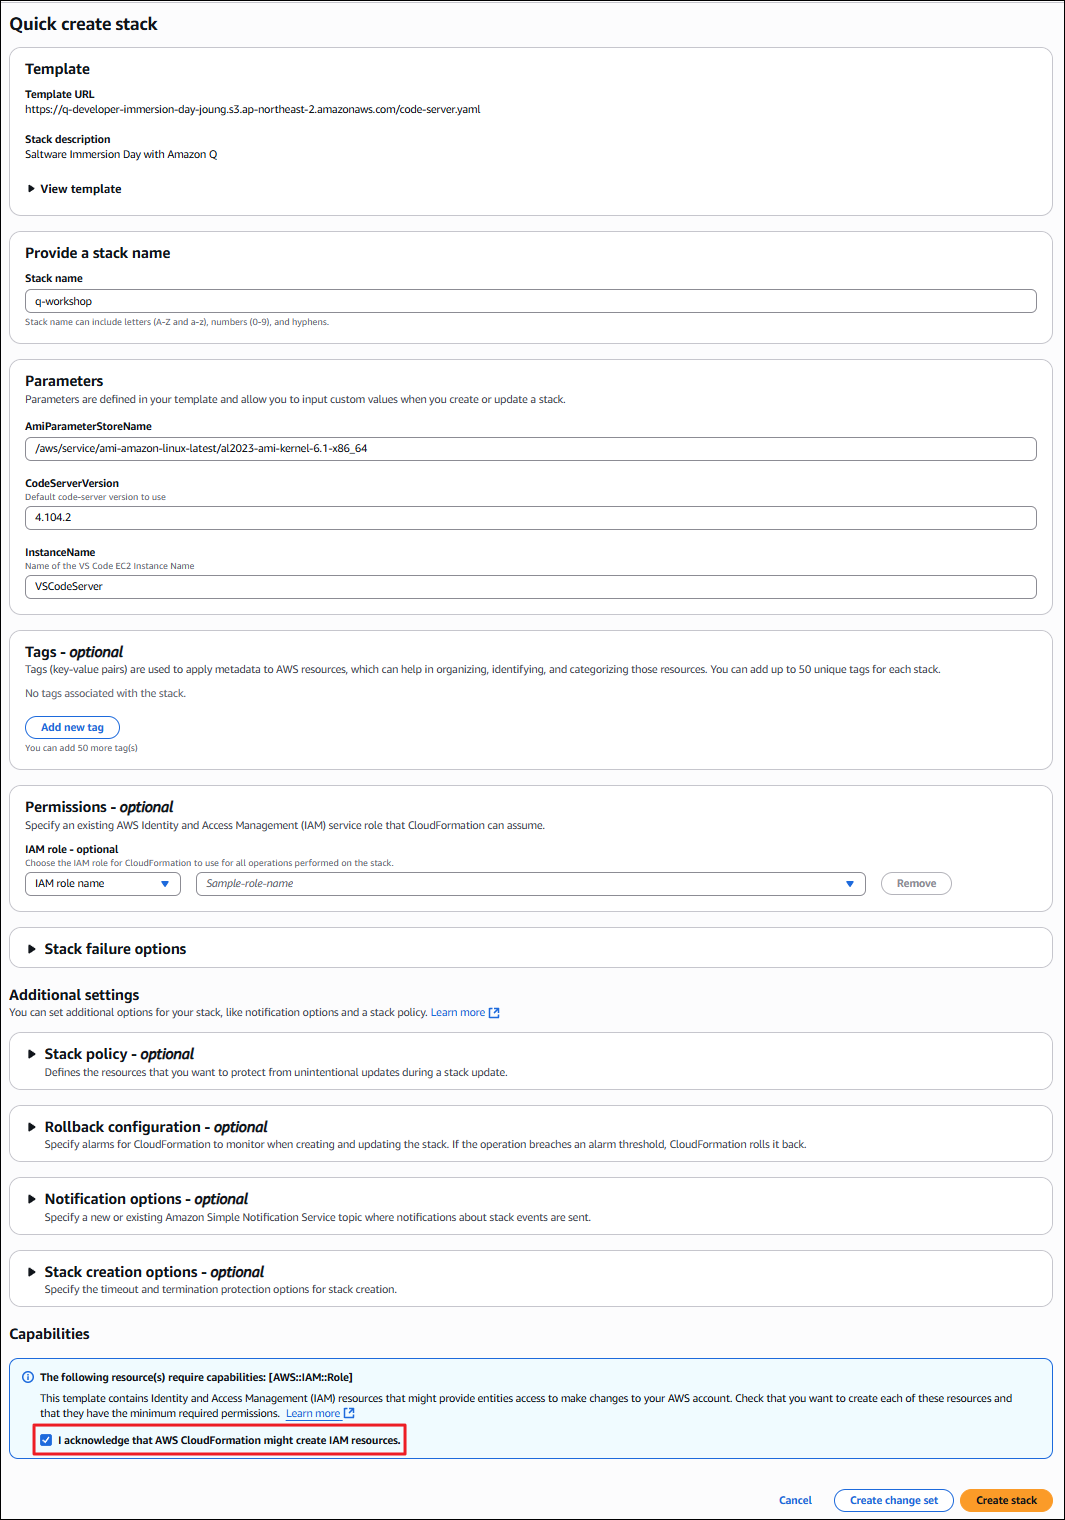
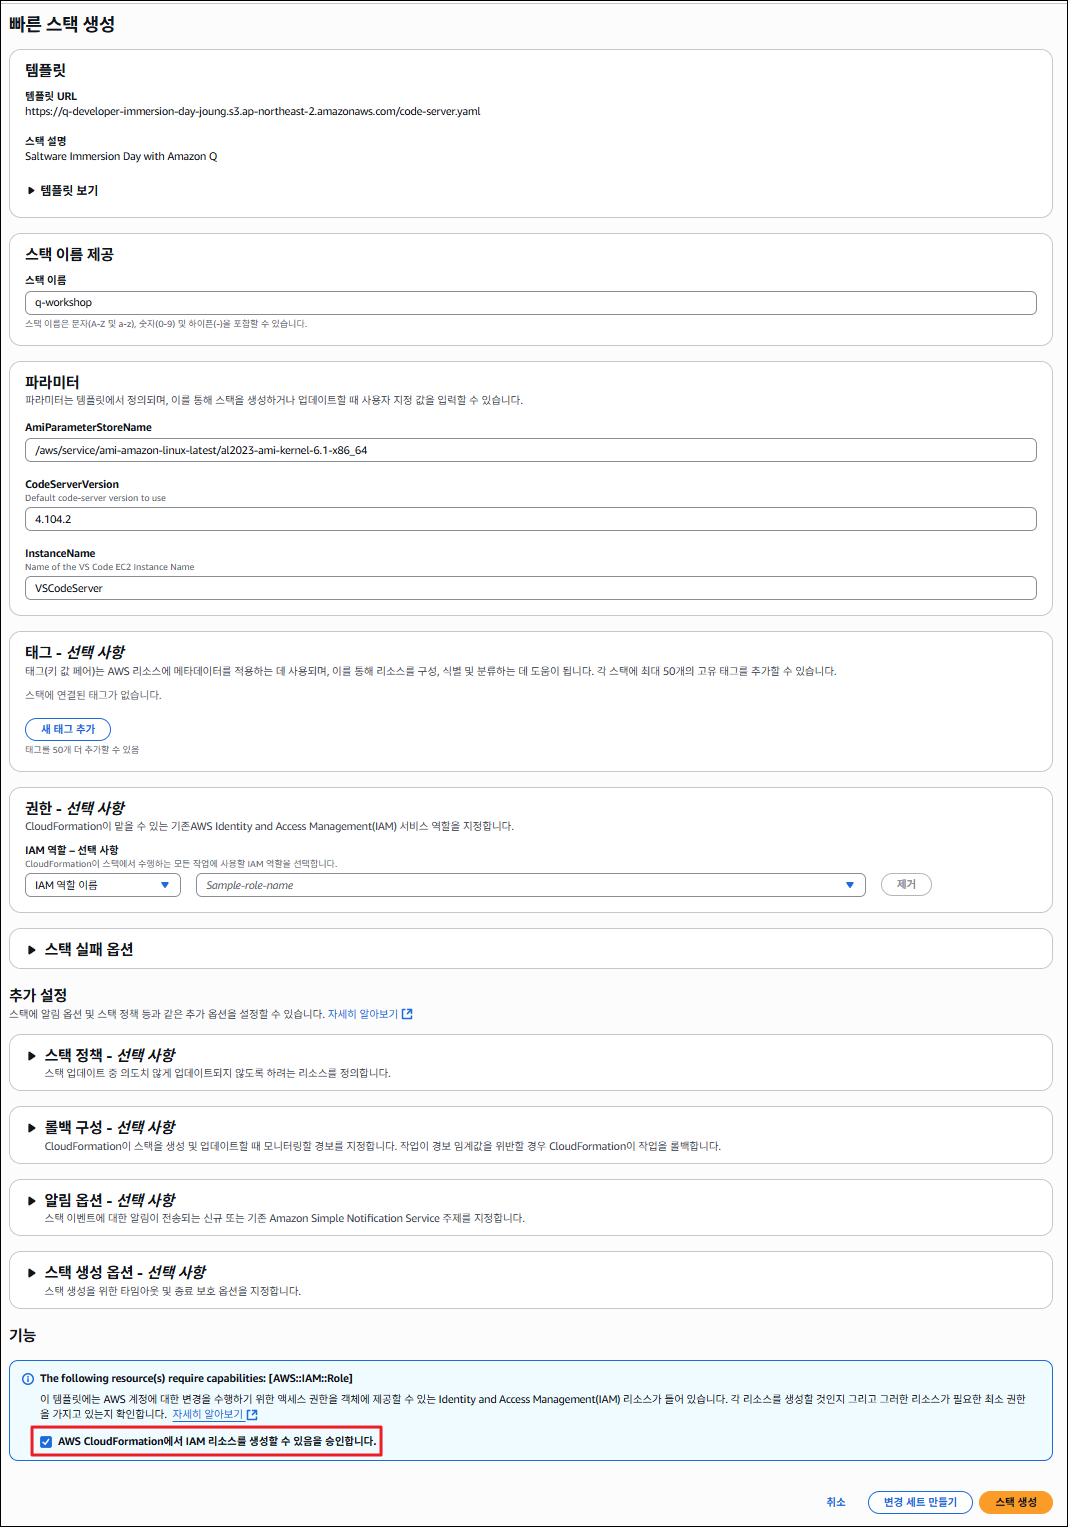
workshop 3.0

diff --git a/docs/20-q_feature/21-chat.md b/docs/20-q_feature/21-chat.md
@@ -12,14 +12,30 @@ Amazon Q Developer의 Chat은 IDE 안에서 자연어로 질문하고 답변을 
     ![agentic_off](./images/agentic_off.png)
 
 
-## Act 2: Amazon Q 기능 확인하기
+## Act 2: 채팅 활용하기
+  Amazon Q는 AWS 서비스 및 소프트웨어 개발에 대한 질문에 답변할 수 있습니다.
+
+  1. AWS와 관련된 질문하거나, 궁금한 사항을 질문해보세요.
+
+    예시 프롬프트 :
+    ```
+    Python Streamlit으로 개발된 웹 애플리케이션을 AWS로 배포하는 방법을 알려주세요.
+    ```
+    
+  2. Amazon Q가 해당 질문에 대해 어떻게 분석하고 응답하는지       확인합니다.
+
+    ![question1](./images/question1.png)
+    <br>
+
+## Act 3: Context 활용하여 채팅하기
+  Context는 대화나 코드, 문서 등 AI가 참고할 수 있는 추가 정보입니다.
+
+  이를 활용하면 AI가 단순히 입력된 문장만이 아니라, 주어진 상황과 배경(Context)을 함께 고려하여 보다 정확하고 일관된 응답을 생성할 수 있습니다.  
+
   1. 채팅에서 "@Pin Context"버튼을 클릭하거나 "@"를 입력하여 컨텍스트 기능을 표시합니다.
 
     !!! note
         @Pin Context로 Context를 등록하면 매 채팅마다 자동으로 등록된 Context를 참고하여 응답을 생성합니다.
-        
-    
-    해당 기능을 사용하여 AI가 컨텍스트 내용을 참고하여 정확한 응답을 할 수 있도록 합니다.
 
     ![context](./images/context.png)
 
@@ -31,52 +47,27 @@ Amazon Q Developer의 Chat은 IDE 안에서 자연어로 질문하고 답변을 
     - Image: 프롬프트의 컨텍스트로 이미지를 추가할 수 있습니다.
     <br>
   
-  2. 채팅에서 "/"를 입력하여 사용할 수 있는 명령어를 표시합니다.
-    
-    ![command](./images/command.png)
-
-    - ```/transform```: 이 명령을 사용하여 전체 프로젝트의 코드 언어 버전을 업데이트합니다. (해당 명령은 현재 Java만 지원하므로 이 실습에서 사용하지 않습니다.)
-    - ```/help```: 이 명령을 사용하여 Amazon Q가 수행할 수 있는 작업과 수행할 수 없는 작업의 개요, 예시 질문 및 빠른 명령에 대한 개요를 볼 수 있습니다.
-    - ```/clear```: 이 명령을 사용하여 현재 대화를 지웁니다. 채팅 패널에서 이전 대화를 모두 제거하고 Amazon Q가 이전 대화에 대해 가지고 있는 컨텍스트를 지웁니다.
-    - ```/compact```: 컨텍스트 창이 용량 제한에 가까워지면 이 명령을 사용하여 채팅 기록을 압축합니다.
-
-## Act 3: 채팅 활용하기
-  Amazon Q는 AWS 서비스 및 소프트웨어 개발에 대한 질문에 답변할 수 있습니다.
-
-  1. 웹 애플리케이션 배포 방법 질문하기
-
-    아래 내용으로 Amazon Q 채팅에 질문합니다.
-
-    ```
-    Python Streamlit으로 개발된 웹 애플리케이션을 AWS로 배포하는 방법을 알려주세요.
-    ```
-    
-    Amazon Q가 해당 질문에 대해 어떻게 분석하고 응답하는지 확인합니다.
-    ![question1](./images/question1.png)
-    <br>
-  
-  2. 코드 분석 요청하기
-    
-    Context로 ```sample/sample_python_code.py```를 추가하고, 아래 내용으로 Amazon Q 채팅에 질문합니다.
-    ![question2-1](./images/question2-1.png)
-
+  2. `sample/sample_python_code.py`를 Context로 추가하고, Amazon Q에 코드 리뷰를 요청합니다.
+    예시 프롬프트 :
 
     ```
     이 python 코드를 분석하고 발견된 문제점과 고쳐야 할 부분을 설명해주세요.
     ```
+    <br>
 
-    Amazon Q가 해당 질문에 대해 어떻게 분석하고 응답하는지 확인합니다.
+  3. Amazon Q가 해당 질문에 대해 어떻게 분석하고 응답하는지 확인합니다.
+
     ![question2-2](./images/question2-2.png)
+
+
 
 ## 요약
 
   이 워크숍 활동에서 다음 항목을 실습했습니다.
 
   - ✅ Amazon Q 채팅 활성화
-  - ✅ Amazon Q 채팅 에이전틱 활성화/비활성화
-  - ✅ `@` 를 사용하여 Context 추가 확인
-  - ✅ `/` 를 사용하여 Amazon Q 지원 기능 확인
   - ✅ Amazon Q에 질문하기
+  - ✅ `@` 를 사용하여 Context 추가 확인
   - ✅ Amazon Q에 코드 분석 요청하기
 
   다음 활동에서는 Amazon Q의 Agent 기능을 실습해볼 것입니다.

diff --git a/docs/30-vibe_code/31-implement.md b/docs/30-vibe_code/31-implement.md
@@ -8,14 +8,14 @@ AI 모델과 효과적으로 소통하기 위해서는 프롬프트 엔지니어
 
 **나쁜 프롬프트 예시:**
 ```
-이미지 갤러리 웹사이트 만들어줘.
+AWS Bedrock 서비스를 사용해서 AI 이미지 갤러리 웹사이트 만들어줘.
 ```
 
 **좋은 프롬프트 예시:**
 ```
 Python Streamlit 프레임워크 기반으로 AWS AI Image Gallery 웹 애플리케이션을 구성해줘.
 
-- 사용할 AI 이미지 생성 모델: Amazon Titan Image Generator
+- 사용할 Bedrock FM 이미지 생성 모델: Amazon Nova Canvas
 - 주요 기능:
     - 텍스트 프롬프트로 이미지 생성
     - 생성된 이미지를 S3 버킷에 저장
@@ -25,7 +25,7 @@ Python Streamlit 프레임워크 기반으로 AWS AI Image Gallery 웹 애플리
     - 테스트 코드는 작성하지 않음
 ```
 
-좋은 프롬프트를 작성하는 것 자체가 어렵게 느껴진다면, 이 역시 Amazon Q에게 물어볼 수 있습니다. 예를 들어 "Python Streamlit 기반의 이미지 갤러리 앱 개발을 요청하려고 하는데, 어떤 항목들을 포함해서 프롬프트를 작성하면 좋을까?"와 같이 질문하여 프롬프트 작성을 위한 가이드를 받을 수 있습니다.
+좋은 프롬프트를 작성하는 것 자체가 어렵게 느껴진다면, 이 역시 Amazon Q에게 물어볼 수 있습니다. 예를 들어 "Python Streamlit 기반의 Bedrock 이미지 생성 및 이미지 갤러리 웹 개발을 요청하려고 하는데, 어떤 항목들을 포함해서 프롬프트를 작성하면 좋을까?"와 같이 질문하여 프롬프트 작성을 위한 가이드를 받을 수 있습니다.
 
 
 ## Act 2: 개발명세서 작성 (Plan)
@@ -282,8 +282,8 @@ Python Streamlit 프레임워크 기반으로 AWS AI Image Gallery 웹 애플리
 이 워크숍 활동에서 다음 항목을 실습했습니다.
 
   - ✅ 프롬프트 엔지니어링
-  - ✅ 개발명세서 작성
-  - ✅ 개발명세서 기반 애플리케이션 구성
-  - ✅ Amazon Q로 이슈 및 오류 해결
+  - ✅ Amazon Q Developer를 활용한 개발명세서 작성
+  - ✅ Amazon Q Developer를 활용한 개발명세서 기반 애플리케이션 구성
+  - ✅ Amazon Q Developer로 이슈 및 오류 해결
 
 다음 활동에서는 Amazon Q를 활용해서 구성된 웹앱에 기능을 추가하는 실습을 해볼 것입니다.

diff --git a/docs/10-environment/12-code_server.md b/docs/10-environment/12-code_server.md
@@ -4,7 +4,7 @@
 이를 통해 모든 도구가 사전 구성된 일관된 개발 환경을 제공합니다.
 
 1. 해당 <a href="https://ap-northeast-2.console.aws.amazon.com/cloudformation/home?region=ap-northeast-2#/stacks/quickcreate?templateURL=https%3A%2F%2Fq-developer-immersion-day-joung.s3.ap-northeast-2.amazonaws.com%2Fcode-server.yaml&stackName=q-workshop" target="_blank">스택 생성</a> 링크를 클릭해서 실습 환경을 구성하는 CloudFormation 스택을 생성합니다.
-    하단에 "I acknowledge that AWS CloudFormation might create IAM resources." 체크박스를 선택하고 "Create stack" 선택하여 스택을 생성합니다.
+    하단에 "AWS CloudFormation에서 IAM 리소스를 생성할 수 있음을 승인합니다." 체크박스를 선택하고 "스택 생성"을 선택하여 스택을 생성합니다.
 
     !!! info
         스택 생성이 완료되기까지 약 7~10분 소모됩니다.
@@ -14,7 +14,7 @@
 
     <br>
 
-2. 스택의 상태가 "CREATE_COMPLETE" 가 되면, [Outputs] 탭을 선택해서 Code Server의 URL과 Password를 확인합니다.
+2. 스택의 상태가 "CREATE_COMPLETE" 가 되면, [출력] 탭을 선택해서 Code Server의 URL과 Password를 확인합니다.
 
     !!! info
         Bucket Name은 [Amazon Q를 활용한 실제 Application 구성 실습]의 [Task 1: 계획-구성-검증]에서 사용됩니다.

diff --git a/docs/index.md b/docs/index.md
@@ -1,6 +1,6 @@
 # 소개
 ## Amazon Q Developer 완전 정복 실습 워크숍
-이 워크숍에서는 Amazon Q Developer(IDE)를 활용해 AI Image 갤러리 웹 애플리케이션을 기획·구현·테스트·배포까지 바이브 코딩 방식으로 완성합니다. AI 에이전트의 핵심 개념(Rule, MCP, Chat, Agent)을 실무 흐름에 적용하는 방법과, Bedrock의 생성형 AI 모델을 애플리케이션에 통합하는 패턴을 학습합니다.
+이 워크숍에서는 Amazon Q Developer(IDE)를 활용해 AWS AI Image 갤러리 웹 애플리케이션을 기획·구현·(테스트·배포)까지 바이브 코딩 방식으로 완성합니다. AI 에이전트의 핵심 개념(Rule, MCP, Chat, Agent)을 실무 흐름에 적용하는 방법과, Bedrock의 생성형 AI 모델을 애플리케이션에 통합하는 패턴을 학습합니다.
 
 ## 학습 목표
 - Amazon Q Developer의 핵심 기능 이해 및 실전 적용
@@ -26,5 +26,6 @@
 2. Q 기능 이해 및 실습
 3. 애플리케이션 구현
 
-## 예상 소요 시간
-- 총 2.5–4시간
+## 실습 결과물
+AWS AI Image Gallery
+![introduce](./00-introduce/images/introduce1.gif)

diff --git a/docs/10-environment/11-workshop_studio.md b/docs/10-environment/11-workshop_studio.md
@@ -33,3 +33,6 @@ AWS 주최 이벤트에 참여하는 경우 AWS Workshop Studio 라는 플랫폼
 
 8. AWS 관리 콘솔에 정상적으로 로그인 되었는지 확인합니다.
 ![ws8](./images/ws8.webp)
+
+9. (선택사항) 우측 상단에 톱니바퀴 버튼(⚙)을 누르고, 언어를 한국어로 변경합니다.
+![ws9](./images/ws9.png)

diff --git a/docs/00-introduce/index.md b/docs/00-introduce/index.md
@@ -26,5 +26,6 @@
 2. Q 기능 이해 및 실습
 3. 애플리케이션 구현
 
-## 예상 소요 시간
-- 총 2.5–4시간
+## 실습 결과물
+AWS AI Image Gallery
+![introduce](./images/introduce1.gif)
